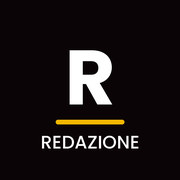
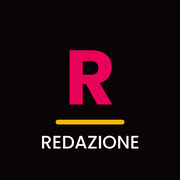
Icona dell'app: R fucsia su nero con linea oro e scritta REDAZIONE
Claude-Session: https://claude.ai/code/session_015npsKJWowX9pKs8xnfoPe9

Changed region(s): [[0.3611, 0.2778, 0.6389, 0.5833]]

diff --git a/sw.js b/sw.js
@@ -1,7 +1,7 @@
 // Service worker: rende l'app installabile e la apre anche con rete debole.
 // Strategia "prima la rete": le modifiche pubblicate arrivano subito; la copia salvata serve solo offline.
 // Dati e foto (Supabase) non passano di qui.
-const CACHE = 'redazione-v2';
+const CACHE = 'redazione-v3';
 const SHELL = ['./', 'index.html', 'style.css', 'app.js', 'config.js', 'manifest.webmanifest',
   'img/fuxia_logo.png', 'img/rnv_logo.png', 'img/fuxia_banner.jpg', 'img/rnv_banner.jpg',
   'icons/icon-192.png', 'icons/icon-512.png'];

diff --git a/README.md b/README.md
@@ -41,7 +41,7 @@ La redazione online delle due testate: articoli con stati (Bozza, In revisione, 
 
 ## Icona
 
-L'icona attuale è la "R" bianca su nero con linea oro e scritta REDAZIONE (icons/varianti/9.png). Le alternative sono in `icons/opt_fuxia.png` e `icons/opt_rnv.png`: per cambiarla vanno rigenerati `icon-192.png`, `icon-512.png`, `maskable-512.png`, `apple-touch-icon.png`, `favicon-32.png` dall'opzione scelta.
+L'icona attuale è la "R" fucsia su nero con linea oro e scritta REDAZIONE (icons/varianti/10.png). Le alternative sono in `icons/opt_fuxia.png` e `icons/opt_rnv.png`: per cambiarla vanno rigenerati `icon-192.png`, `icon-512.png`, `maskable-512.png`, `apple-touch-icon.png`, `favicon-32.png` dall'opzione scelta.
 
 ## Note per chi modifica il codice (anche Claude)
 
